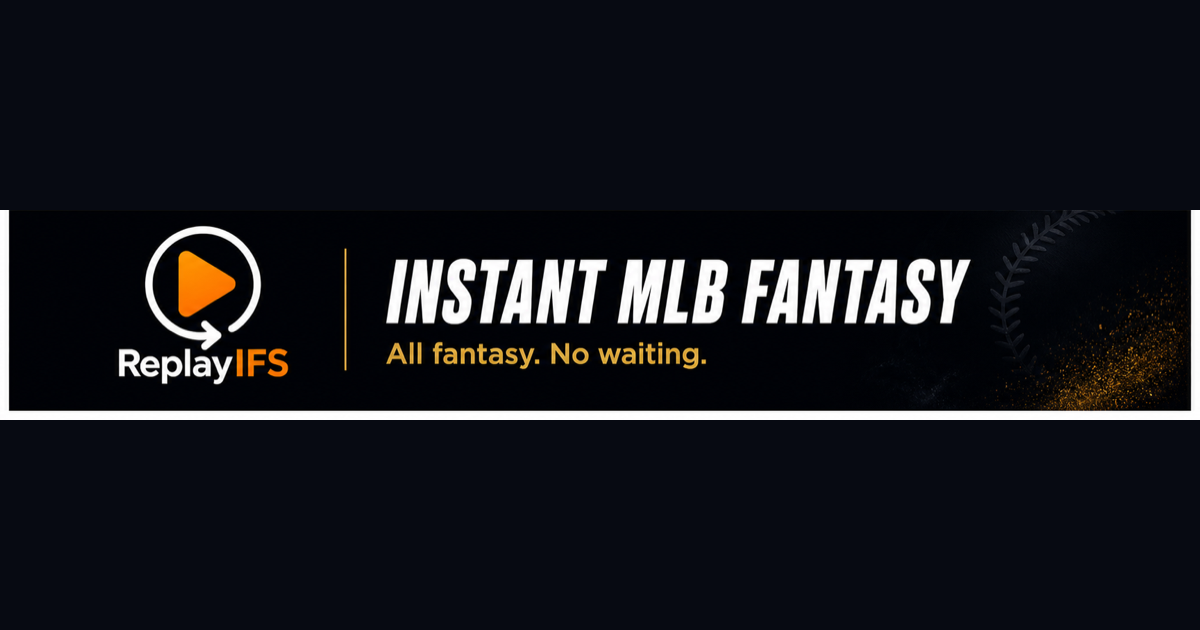
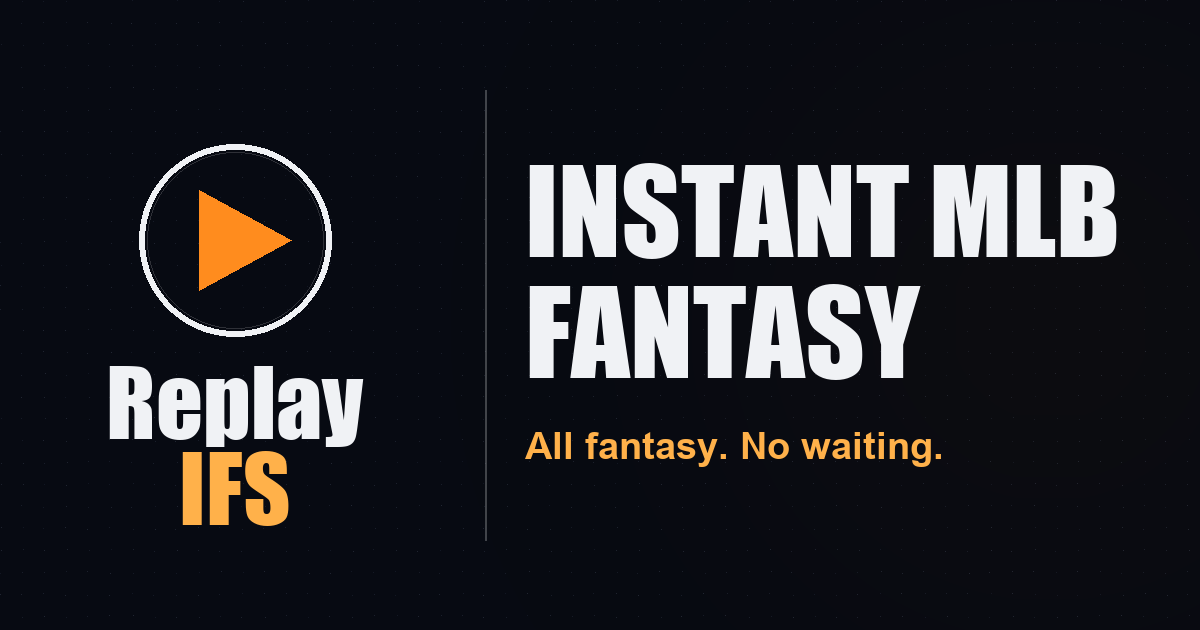
improve OG image layout
Regenerate the three OG images so the artwork fills the full 1200x630
canvas instead of being letterboxed inside a thin centered strip.

- Solid #070A12 background with a subtle dot texture, no top/bottom bars
- ReplayIFS play badge + wordmark on the left (≈360px wide)
- Vertical divider, then a large white Impact headline + gold tagline
- Auto-fit headline so all three sport variants share one consistent size
- Output remains exactly 1200x630, fed by chooser/public/ → dist/ at root

Headlines:
- og-home.png        → INSTANT FANTASY
- og-basketball.png  → INSTANT NBA FANTASY
- og-baseball.png    → INSTANT MLB FANTASY

Generation is deterministic via scripts/build-og-images.py (PIL).

Changed region(s): [[0.3083, 0.2413, 0.9558, 0.6032], [0.0, 0.2111, 1.0, 0.8444], [0.2158, 0.2413, 0.2467, 0.2714]]

diff --git a/scripts/build-og-images.py b/scripts/build-og-images.py
@@ -1,0 +1,196 @@
+#!/usr/bin/env python3
+"""
+Generate ReplayIFS OG images at exactly 1200x630, no letterboxing.
+
+Outputs:
+  chooser/public/og-home.png        — INSTANT FANTASY
+  chooser/public/og-basketball.png  — INSTANT NBA FANTASY
+  chooser/public/og-baseball.png    — INSTANT MLB FANTASY
+
+Layout per image:
+  - Solid #070A12 background with subtle dot pattern
+  - Left: ReplayIFS play-badge + wordmark
+  - Vertical divider
+  - Right: large white headline (auto-fit) + gold tagline
+"""
+
+import os
+import random
+from PIL import Image, ImageDraw, ImageFont, ImageFilter
+
+W, H = 1200, 630
+
+BG = (7, 10, 18)            # #070A12
+WHITE = (240, 242, 245)     # #F0F2F5
+ORANGE = (255, 140, 30)     # play button
+GOLD = (255, 177, 74)       # #FFB14A — tagline + accent
+
+REPO = os.path.dirname(os.path.dirname(os.path.abspath(__file__)))
+OUT_DIR = os.path.join(REPO, "chooser", "public")
+
+IMPACT = "/System/Library/Fonts/Supplemental/Impact.ttf"
+ARIAL_BOLD = "/System/Library/Fonts/Supplemental/Arial Bold.ttf"
+ARIAL_NARROW_BOLD = "/System/Library/Fonts/Supplemental/Arial Narrow Bold.ttf"
+
+
+def make_canvas() -> Image.Image:
+    img = Image.new("RGB", (W, H), BG)
+    # Subtle radial glow on right (gold accent), then dot pattern overlay.
+    glow = Image.new("RGB", (W, H), BG)
+    g = ImageDraw.Draw(glow)
+    cx, cy = 1050, 320
+    for r in range(620, 0, -20):
+        # very subtle warm tint that fades to BG
+        t = r / 620.0
+        col = (
+            int(BG[0] + (28 - BG[0]) * (1 - t) * 0.35),
+            int(BG[1] + (22 - BG[1]) * (1 - t) * 0.35),
+            int(BG[2] + (14 - BG[2]) * (1 - t) * 0.35),
+        )
+        g.ellipse((cx - r, cy - r, cx + r, cy + r), fill=col)
+    glow = glow.filter(ImageFilter.GaussianBlur(radius=70))
+    img = Image.blend(img, glow, alpha=0.9)
+
+    # Dot pattern, very dim, full bleed.
+    pix = img.load()
+    random.seed(7)
+    step = 22
+    for y in range(0, H, step):
+        for x in range(0, W, step):
+            ox = x + (random.randint(-1, 1))
+            oy = y + (random.randint(-1, 1))
+            if 0 <= ox < W and 0 <= oy < H:
+                base = pix[ox, oy]
+                lift = random.randint(10, 26)
+                pix[ox, oy] = (
+                    min(255, base[0] + lift),
+                    min(255, base[1] + lift + 2),
+                    min(255, base[2] + lift + 6),
+                )
+    return img
+
+
+def draw_logo(img: Image.Image, cx: int) -> None:
+    """Logo block — play-badge circle stacked over Replay/IFS wordmark.
+    Renders into the image at horizontal center `cx`, vertically centered.
+    """
+    d = ImageDraw.Draw(img, "RGBA")
+    badge_cy = 240
+    r = 96
+
+    # White outer ring
+    d.ellipse((cx - r, badge_cy - r, cx + r, badge_cy + r),
+              outline=WHITE, width=6)
+    # Inner dim ring for depth
+    d.ellipse((cx - r + 8, badge_cy - r + 8, cx + r - 8, badge_cy + r - 8),
+              outline=(255, 255, 255, 40), width=1)
+
+    # Orange play triangle
+    tri_h = int(r * 1.05)
+    tri_w = int(tri_h * 0.92)
+    cx_t = cx + 6
+    pts = [
+        (cx_t - tri_w * 0.45, badge_cy - tri_h * 0.5),
+        (cx_t - tri_w * 0.45, badge_cy + tri_h * 0.5),
+        (cx_t + tri_w * 0.55, badge_cy),
+    ]
+    d.polygon(pts, fill=ORANGE)
+
+    # Wordmark — "Replay" white over "IFS" gold, stacked, both Impact.
+    f_word = ImageFont.truetype(IMPACT, 92)
+    line1 = "Replay"
+    line2 = "IFS"
+    b1 = f_word.getbbox(line1)
+    b2 = f_word.getbbox(line2)
+    w1, h1 = b1[2] - b1[0], b1[3] - b1[1]
+    w2, h2 = b2[2] - b2[0], b2[3] - b2[1]
+
+    y1 = badge_cy + r + 30
+    d.text((cx - w1 // 2 - b1[0], y1 - b1[1]),
+           line1, font=f_word, fill=WHITE)
+    y2 = y1 + h1 + 4
+    d.text((cx - w2 // 2 - b2[0], y2 - b2[1]),
+           line2, font=f_word, fill=GOLD)
+
+
+def draw_divider(img: Image.Image, x: int) -> None:
+    d = ImageDraw.Draw(img, "RGBA")
+    pad = 90
+    d.line((x, pad, x, H - pad), fill=(255, 255, 255, 60), width=2)
+
+
+def fit_font(text: str, path: str, max_w: int, start: int, min_size: int = 40) -> ImageFont.FreeTypeFont:
+    size = start
+    while size > min_size:
+        f = ImageFont.truetype(path, size)
+        b = f.getbbox(text)
+        if (b[2] - b[0]) <= max_w:
+            return f
+        size -= 2
+    return ImageFont.truetype(path, min_size)
+
+
+def draw_text_block(img: Image.Image, headline_lines: list[str], tagline: str,
+                    x_left: int, x_right: int) -> None:
+    d = ImageDraw.Draw(img)
+    max_w = x_right - x_left
+
+    # Auto-fit each headline line independently, then take the smallest size
+    # so all lines share one consistent font size.
+    sizes = []
+    for line in headline_lines:
+        f = fit_font(line, IMPACT, max_w, start=170, min_size=80)
+        sizes.append(f.size)
+    headline_size = min(sizes)
+    f_head = ImageFont.truetype(IMPACT, headline_size)
+
+    # Compute total headline height (line-height ~0.95) and tagline height,
+    # then vertically center the whole text block.
+    line_metrics = [f_head.getbbox(t) for t in headline_lines]
+    line_h = headline_size  # cap height-ish
+    line_gap = int(headline_size * 0.05)
+    total_head_h = line_h * len(headline_lines) + line_gap * (len(headline_lines) - 1)
+
+    f_tag = ImageFont.truetype(ARIAL_BOLD, 38)
+    tag_b = f_tag.getbbox(tagline)
+    tag_h = tag_b[3] - tag_b[1]
+    tag_gap = 32
+
+    block_h = total_head_h + tag_gap + tag_h
+    y_start = (H - block_h) // 2
+
+    y = y_start
+    for line in headline_lines:
+        b = f_head.getbbox(line)
+        d.text((x_left - b[0], y - b[1]), line, font=f_head, fill=WHITE)
+        y += line_h + line_gap
+
+    y = y_start + total_head_h + tag_gap
+    d.text((x_left - tag_b[0], y - tag_b[1]), tagline, font=f_tag, fill=GOLD)
+
+
+def render(headline_lines: list[str], tagline: str, out_name: str) -> str:
+    img = make_canvas()
+    draw_logo(img, cx=235)
+    draw_divider(img, x=485)
+    draw_text_block(img, headline_lines, tagline, x_left=525, x_right=1130)
+
+    out_path = os.path.join(OUT_DIR, out_name)
+    img.save(out_path, "PNG", optimize=True)
+    return out_path
+
+
+def main() -> None:
+    targets = [
+        (["INSTANT", "FANTASY"], "All fantasy. No waiting.", "og-home.png"),
+        (["INSTANT NBA", "FANTASY"], "All fantasy. No waiting.", "og-basketball.png"),
+        (["INSTANT MLB", "FANTASY"], "All fantasy. No waiting.", "og-baseball.png"),
+    ]
+    for headline_lines, tagline, name in targets:
+        path = render(headline_lines, tagline, name)
+        with Image.open(path) as im:
+            print(f"wrote {path}  {im.size[0]}x{im.size[1]}")
+
+
+if __name__ == "__main__":
+    main()
